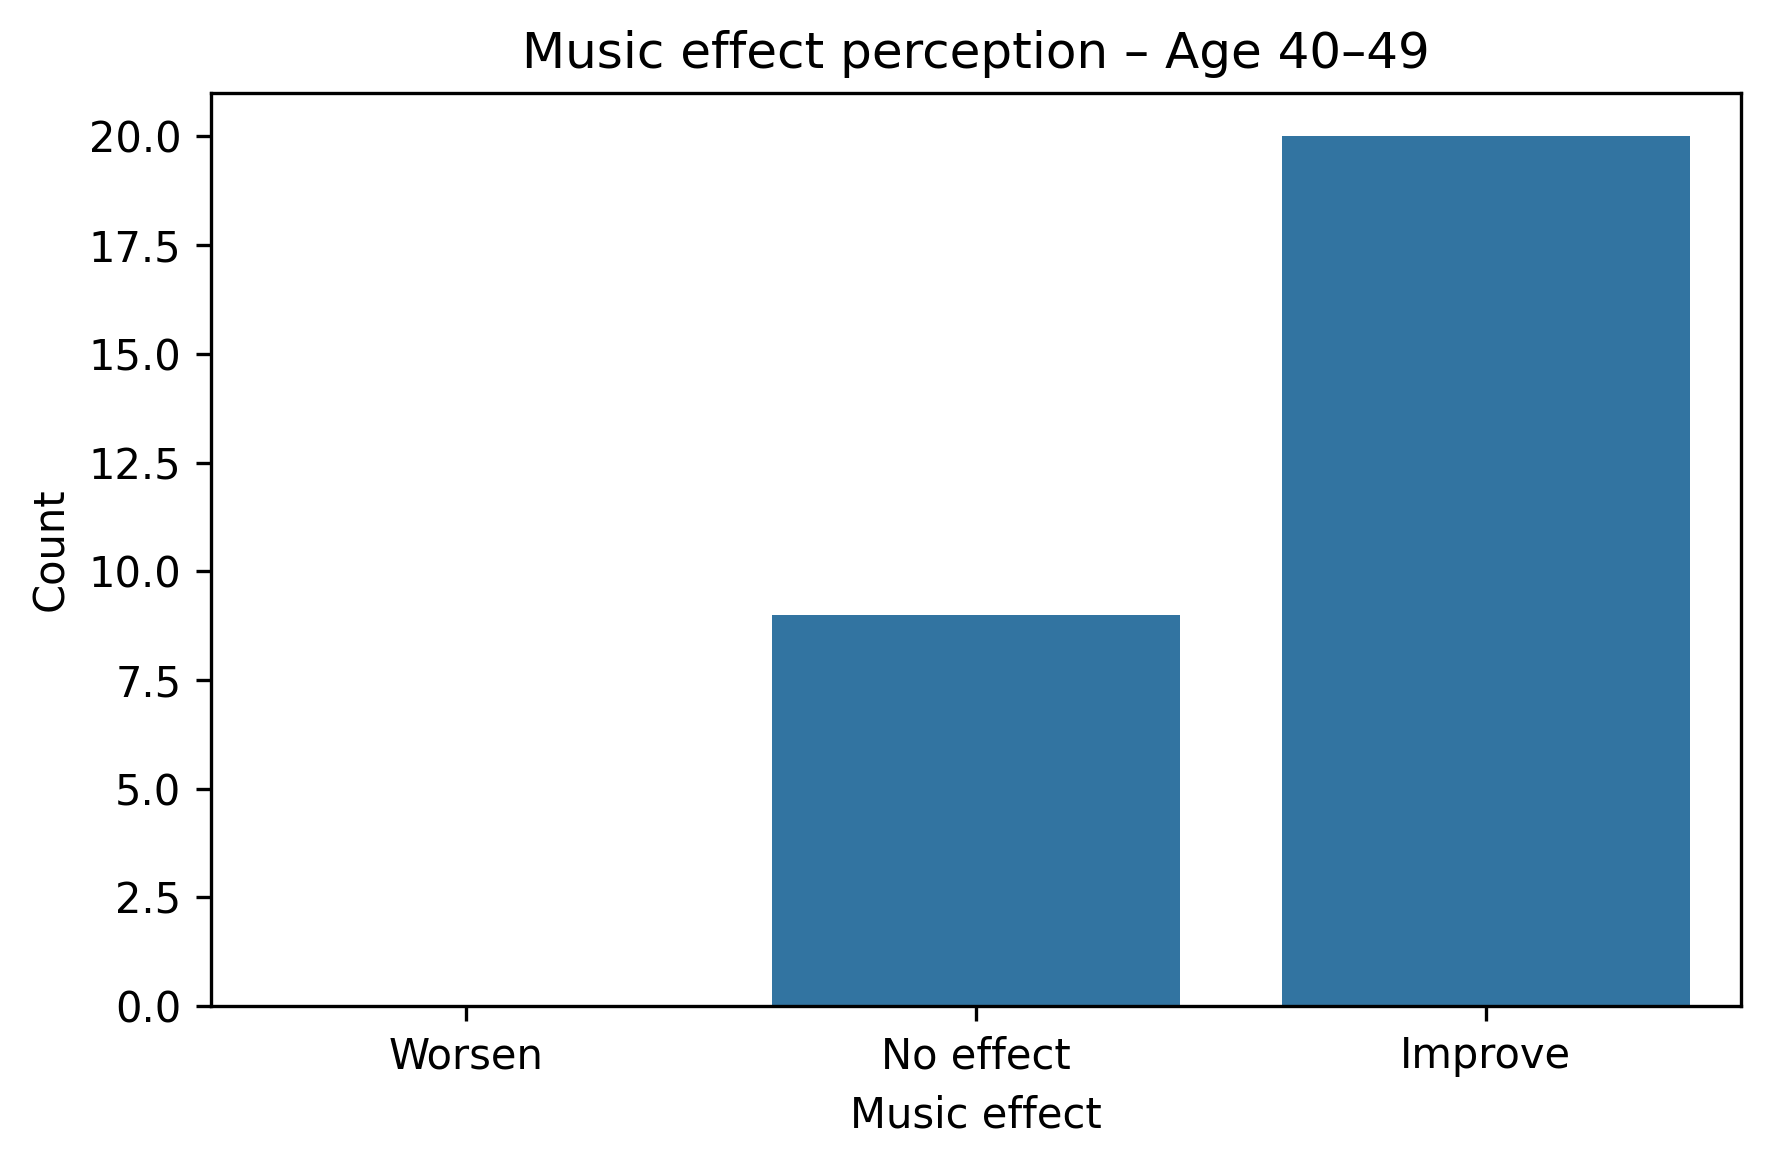
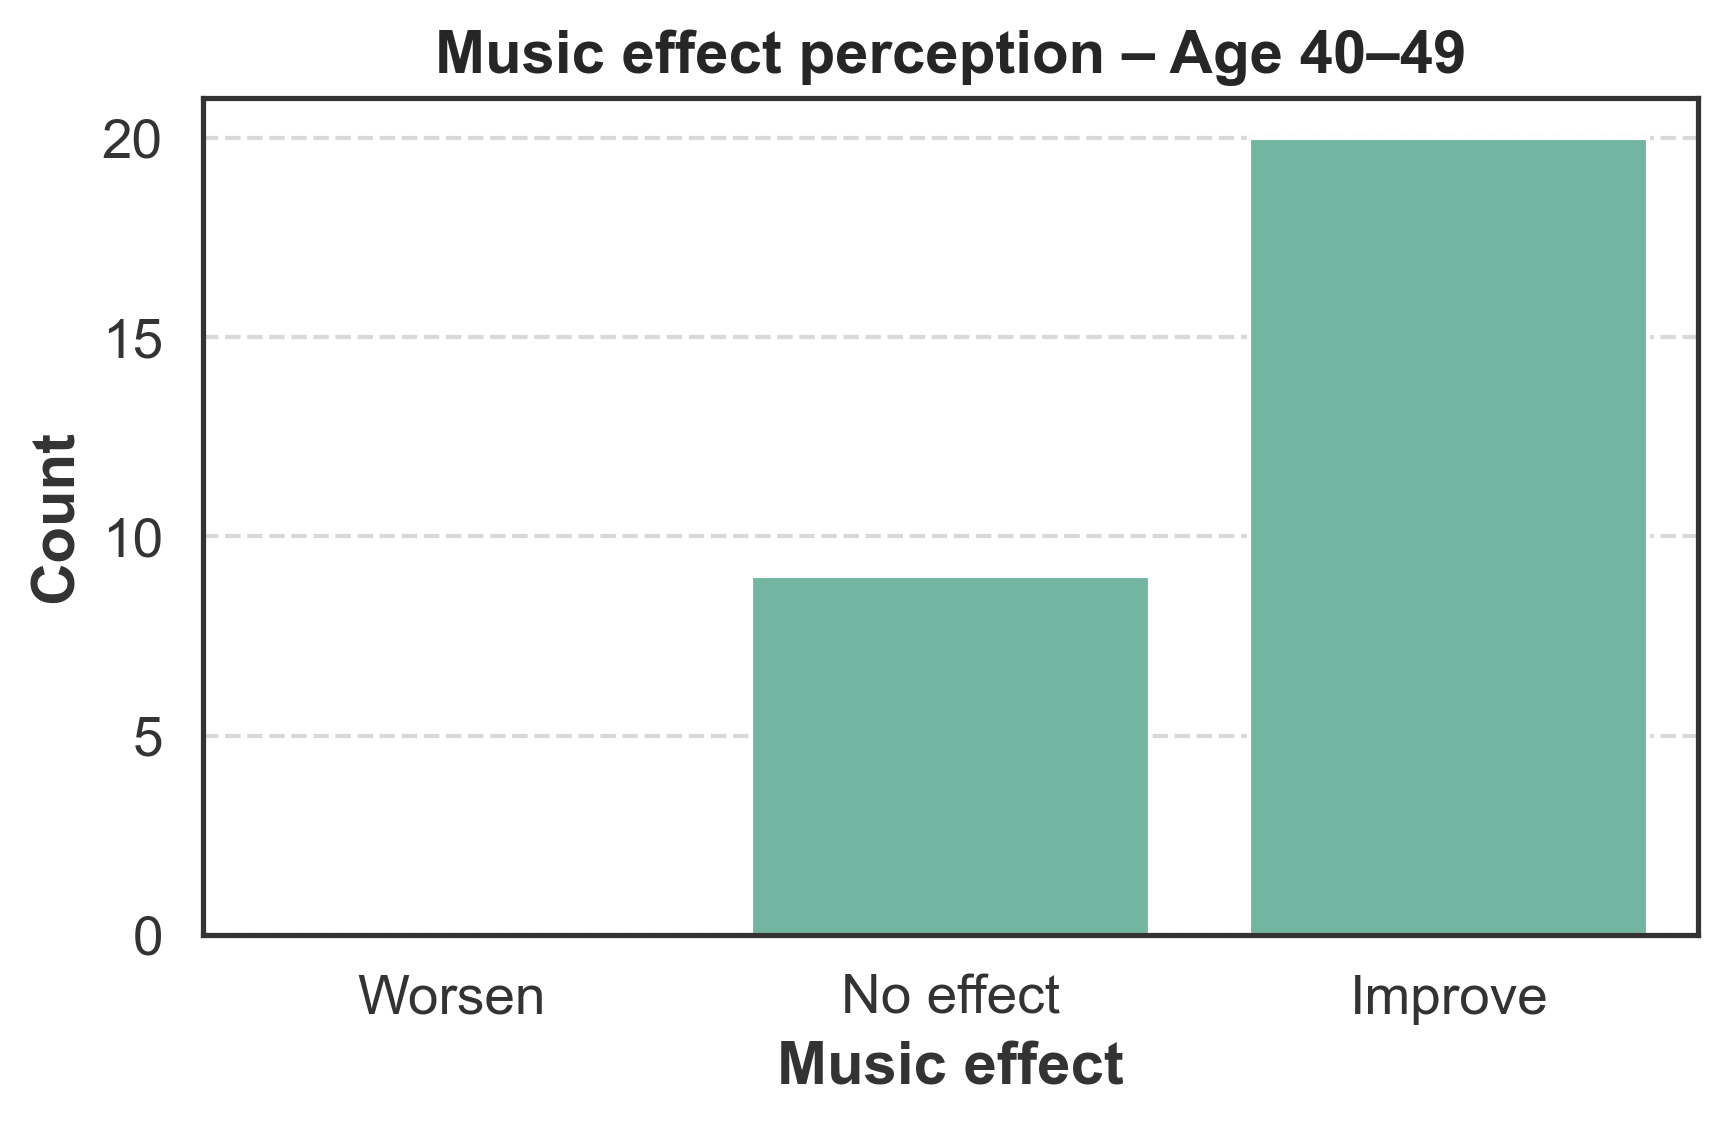
Enhance visualizations in PlotCreator and ResearchQuestions with improved aesthetics and clarity

diff --git a/ResearchQuestions.py b/ResearchQuestions.py
@@ -64,11 +64,18 @@ def analyze_depression_by_genre(df: pd.DataFrame, save_path: str | None = None, 
 
     # --- Vizualizace ---
     fig, ax = plt.subplots(figsize=(10, 6))
-    sns.boxplot(data=data, x="Fav genre", y="Depression", ax=ax, palette="Set2", hue="Fav genre")
 
-    ax.set_title("Depression levels across favorite music genres", fontsize=14)
-    ax.set_xlabel("Favorite Music Genre", fontsize=12)
-    ax.set_ylabel("Depression Score", fontsize=12)
+    ax.set_title("Depression Levels Across Favorite Music Genres")
+    ax.set_xlabel("Favorite Music Genre")
+    ax.set_ylabel("Depression Score")
+
+    sns.boxplot(
+        data=data,
+        x="Fav genre",
+        y="Depression",
+        ax=ax
+    )
+
     plt.xticks(rotation=45, ha="right")
     plt.tight_layout()
 
@@ -137,13 +144,13 @@ def analyze_music_frequency_effects(df: pd.DataFrame, save_path: str | None = No
     # --- Grafická část ---
     fig, axes = plt.subplots(1, 2, figsize=(12, 5))
 
-    sns.regplot(data=data, x="Hours per day", y="Anxiety", ax=axes[0], color="#2196F3")
-    axes[0].set_title("Relationship between Listening Time and Anxiety")
+    sns.regplot(x="Hours per day", y="Anxiety", data=data, ax=axes[0], scatter_kws={'alpha': 0.6})
+    axes[0].set_title("Relationship Between Listening Time and Anxiety")
     axes[0].set_xlabel("Hours of Music per Day")
     axes[0].set_ylabel("Anxiety Level")
 
-    sns.regplot(data=data, x="Hours per day", y="Depression", ax=axes[1], color="#E91E63")
-    axes[1].set_title("Relationship between Listening Time and Depression")
+    sns.regplot(x="Hours per day", y="Depression", data=data, ax=axes[1], scatter_kws={'alpha': 0.6})
+    axes[1].set_title("Relationship Between Listening Time and Depression")
     axes[1].set_xlabel("Hours of Music per Day")
     axes[1].set_ylabel("Depression Level")
 
@@ -195,13 +202,12 @@ def analyze_music_while_working(df: pd.DataFrame, save_path: str | None = None, 
 
     # --- Vizualizace ---
     fig, ax = plt.subplots(figsize=(6, 5))
-    sns.boxplot(data=data, x="While working", y="Depression", palette=["#E57373", "#81C784"], ax=ax,
-                hue="While working")
 
-    ax.set_title("Depression levels by music listening during work")
-    ax.set_xlabel("Listening to music while working")
+    ax.set_title("Depression Levels by Music Listening During Work")
+    ax.set_xlabel("Listening to Music While Working")
     ax.set_ylabel("Depression Score")
-    plt.tight_layout()
+
+    sns.boxplot(data=data, x="While working", y="Depression", ax=ax)
 
     show_or_save_plot(fig, save_path, show)
 

diff --git a/PlotCreator.py b/PlotCreator.py
@@ -1,6 +1,24 @@
 import matplotlib.pyplot as plt
 import pandas as pd
 
+import seaborn as sns
+
+sns.set_theme(
+    style="whitegrid",
+    palette="Set2",
+    font_scale=1.2,
+)
+
+plt.rcParams["figure.dpi"] = 120
+plt.rcParams["axes.titleweight"] = "bold"
+plt.rcParams["axes.labelweight"] = "bold"
+plt.rcParams["axes.edgecolor"] = "#333333"
+plt.rcParams["axes.labelcolor"] = "#333333"
+plt.rcParams["xtick.color"] = "#333333"
+plt.rcParams["ytick.color"] = "#333333"
+plt.rcParams["grid.color"] = "0.85"
+plt.rcParams["grid.linestyle"] = "--"
+plt.rcParams["legend.frameon"] = False
 
 def plot_genre_distribution(df: pd.DataFrame, save_path: str | None = None) -> None:
     """
